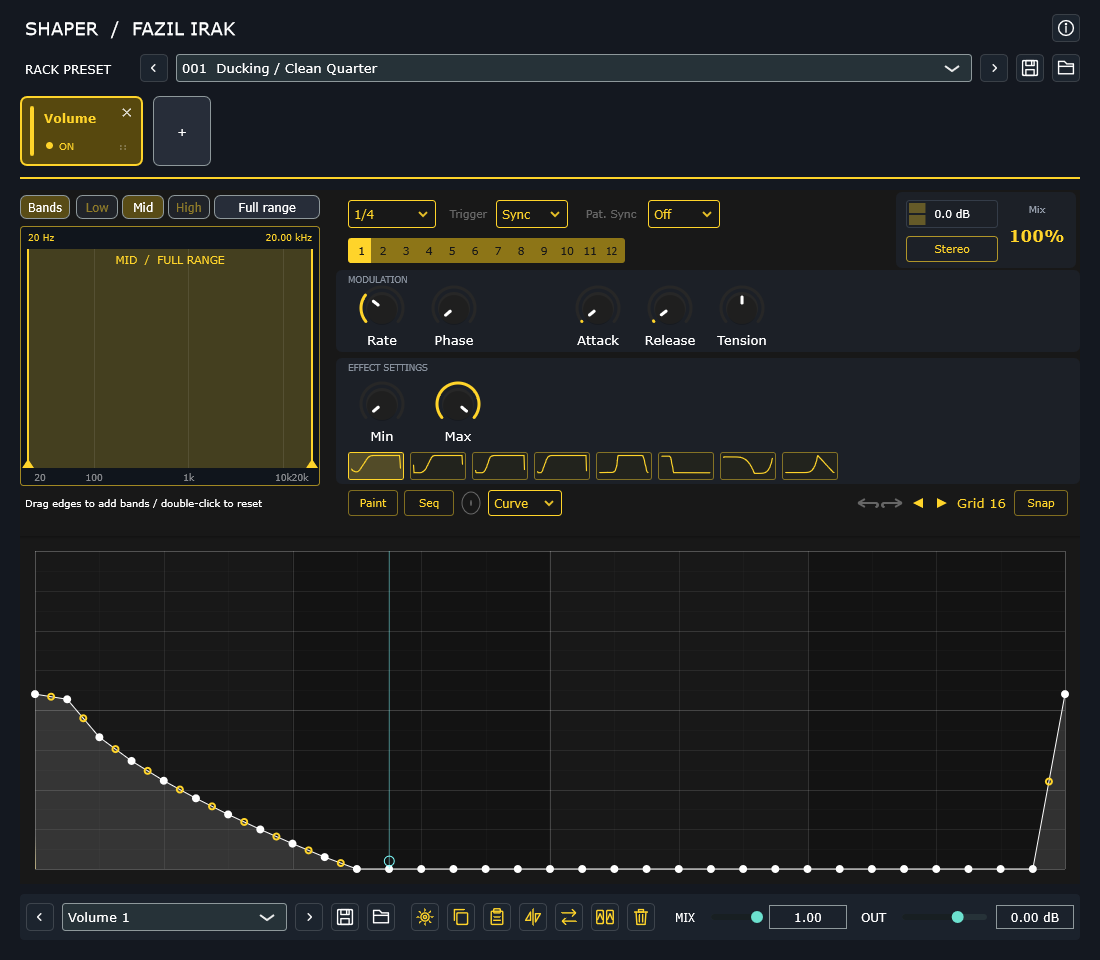
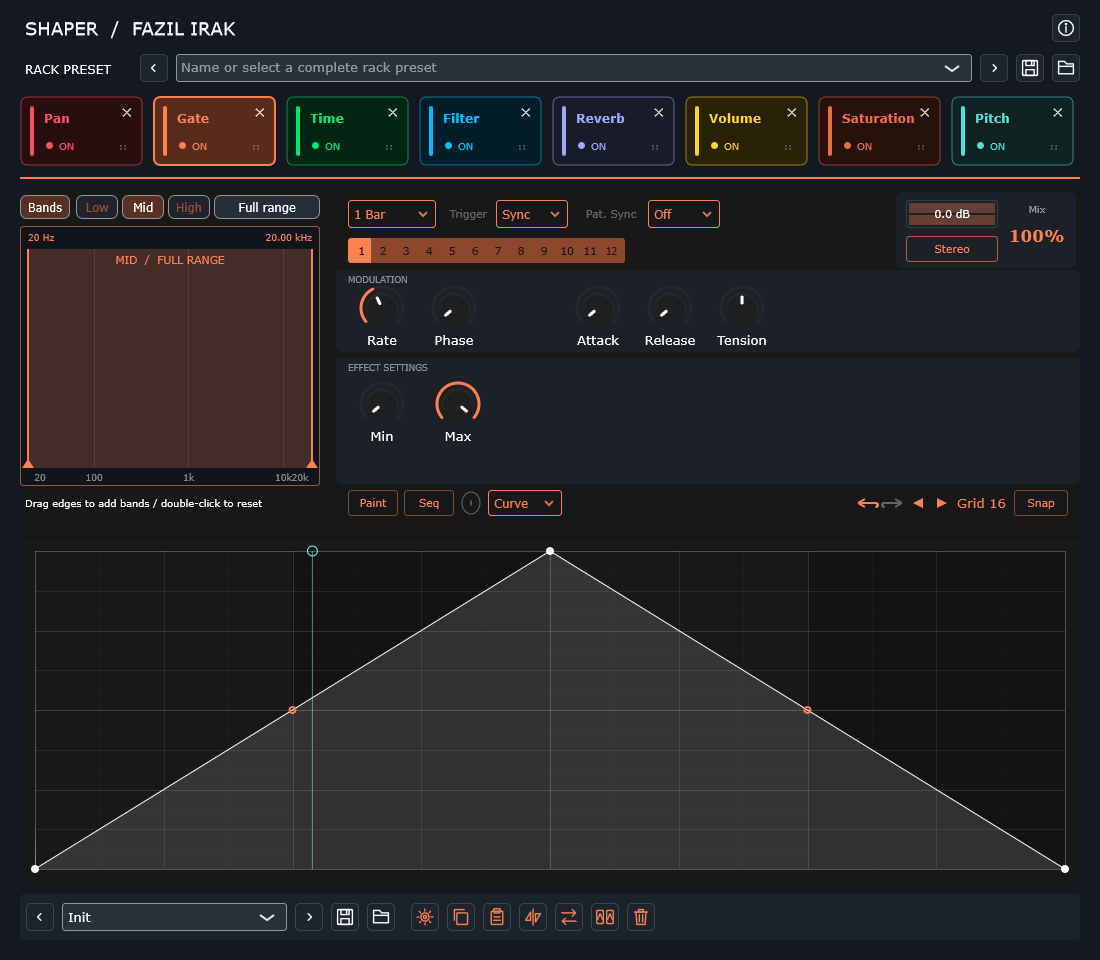
Release Shaper 0.8.3 with simplified Mix and Out footer

diff --git a/Shaper/Source/Editor.cpp b/Shaper/Source/Editor.cpp
@@ -1,9 +1,9 @@
 // SPDX-License-Identifier: GPL-3.0-only
 // Copyright (c) 2026 Fazıl Irak; Shaper eklemeleri/değişiklikleri.
-// Fazıl Irak tarafından oluşturuldu / değiştirildi: 23.10.2026
+// Fazıl Irak tarafından oluşturuldu / değiştirildi: 24.10.2026
 // Kapsam: Shaper için eklenen kod ve uyarlamalar; özgün üçüncü taraf telif/lisansları korunur.
 // Türkçe bakım açıklamaları: Fazıl Irak
-// Son düzenleme: 22.10.2026
+// Son düzenleme: 24.10.2026
 // Dosyanın görevi: Ana rack editörünü, efekt sırasını, seçimlerini ve mevcut ortak kontrol yerleşimini yönetir.
 #include "Editor.h"
 #include "MultibandProcessor.h"
@@ -57,19 +57,9 @@ ShaperEditor::ShaperEditor(ShaperProcessor &p) : AudioProcessorEditor(p), proces
     emptyLabel.setJustificationType(juce::Justification::centred);
     emptyLabel.setColour(juce::Label::textColourId, juce::Colour(0xff8993a1));
     addAndMakeVisible(emptyLabel);
-    for (auto *slider : {&mix, &gain})
-    {
-        slider->setSliderStyle(juce::Slider::LinearHorizontal);
-        slider->setTextBoxStyle(juce::Slider::TextBoxRight, false, 78, 24);
-        addAndMakeVisible(slider);
-    }
-    gain.setTextValueSuffix(" dB");
-    mixLabel.setText("MIX", juce::dontSendNotification);
-    gainLabel.setText("OUTPUT", juce::dontSendNotification);
-    addAndMakeVisible(mixLabel);
-    addAndMakeVisible(gainLabel);
-    mixAttachment = std::make_unique<SliderAttachment>(p.state, "mix", mix);
-    gainAttachment = std::make_unique<SliderAttachment>(p.state, "gain", gain);
+    // Fazıl Irak, 24.10.2026: alt rack Mix/Out görselleri kaldırıldı.
+    // Efektin sağ üst ortak çıkış paneli korunur. Eski rack mix/gain parametreleri
+    // işlemcide kalır; DAW otomasyonu ve eski presetlerin sesi değişmez.
     presetLabel.setText("EFFECT PRESET", juce::dontSendNotification);
     addChildComponent(presetLabel);
     preset.setComponentID("effect-preset");
@@ -524,11 +514,6 @@ void ShaperEditor::resized()
     options.setBounds(411, row, 28, 28);
     for (int i = 0; i < 6; ++i)
         editButtons[i].setBounds(447 + i * 36, row, 28, 28);
-    mixLabel.setBounds(670, row, 30, 28);
-    mix.setBounds(702, row, 145, 28);
-    gainLabel.setText("OUT", juce::dontSendNotification);
-    gainLabel.setBounds(856, row, 35, 28);
-    gain.setBounds(893, row, getWidth() - 919, 28);
     viewport.setBounds(20, 190, getWidth() - 40, getHeight() - 266);
     emptyLabel.setBounds(viewport.getBounds());
     if (child)

diff --git a/Shaper/Source/Editor.h b/Shaper/Source/Editor.h
@@ -1,9 +1,9 @@
 // SPDX-License-Identifier: GPL-3.0-only
 // Copyright (c) 2026 Fazıl Irak; Shaper eklemeleri/değişiklikleri.
-// Fazıl Irak tarafından oluşturuldu / değiştirildi: 23.10.2026
+// Fazıl Irak tarafından oluşturuldu / değiştirildi: 24.10.2026
 // Kapsam: Shaper için eklenen kod ve uyarlamalar; özgün üçüncü taraf telif/lisansları korunur.
 // Türkçe bakım açıklamaları: Fazıl Irak
-// Son düzenleme: 22.10.2026
+// Son düzenleme: 24.10.2026
 // Dosyanın görevi: Ana rack editörünü, efekt sırasını, seçimlerini ve mevcut ortak kontrol yerleşimini yönetir.
 #pragma once
 #include "Processor.h"
@@ -37,10 +37,9 @@ class ShaperEditor final : public juce::AudioProcessorEditor, private juce::Time
   private:
     ShaperProcessor &processor;
     RackLookAndFeel theme;
-    juce::Label title, mixLabel, gainLabel, presetLabel, rackLabel;
+    juce::Label title, presetLabel, rackLabel;
     EffectPalette palette;
     juce::Label emptyLabel;
-    juce::Slider mix, gain;
     juce::ComboBox preset, rackPreset;
     CompactIconButton previous{"<"}, next{">"}, saveRack{"Save rack"}, loadRack{"Load rack"},
         options{"Options"}, aboutButton{"About"};
@@ -53,9 +52,6 @@ class ShaperEditor final : public juce::AudioProcessorEditor, private juce::Time
     std::unique_ptr<juce::FileChooser> chooser;
     juce::Viewport viewport;
     std::unique_ptr<juce::AudioProcessorEditor> child;
-    using SliderAttachment = juce::AudioProcessorValueTreeState::SliderAttachment;
-    using ButtonAttachment = juce::AudioProcessorValueTreeState::ButtonAttachment;
-    std::unique_ptr<SliderAttachment> mixAttachment, gainAttachment;
     void select();
     void refreshPresets();
     void chooseRack(bool save);

diff --git a/Shaper/README.md b/Shaper/README.md
@@ -1,13 +1,17 @@
-<!-- Türkçe bakım: Fazıl Irak | 22.10.2026 -->
-# Shaper 0.8.2 — FAZIL IRAK
+<!-- Türkçe bakım: Fazıl Irak | 24.10.2026 -->
+# Shaper 0.8.3 — FAZIL IRAK
 
 [![Build](https://github.com/fazilirak/Music/actions/workflows/shaper-release.yml/badge.svg)](https://github.com/fazilirak/Music/actions/workflows/shaper-release.yml)
 
-[Windows x64](https://github.com/fazilirak/Music/releases/download/Shaper-v0.8.2/Shaper-0.8.2-Windows-x64.zip) · [macOS Universal](https://github.com/fazilirak/Music/releases/download/Shaper-v0.8.2/Shaper-0.8.2-macOS-Universal.tar.gz) · [Releases](https://github.com/fazilirak/Music/releases/tag/Shaper-v0.8.2) · [Source](https://github.com/fazilirak/Music/tree/main/Shaper)
+[Windows x64](https://github.com/fazilirak/Music/releases/download/Shaper-v0.8.3/Shaper-0.8.3-Windows-x64.zip) · [macOS Universal](https://github.com/fazilirak/Music/releases/download/Shaper-v0.8.3/Shaper-0.8.3-macOS-Universal.tar.gz) · [Releases](https://github.com/fazilirak/Music/releases/tag/Shaper-v0.8.3) · [Source](https://github.com/fazilirak/Music/tree/main/Shaper)
 
 ![Shaper](doc/shaper.png)
 
 JUCE tabanlı VST3 ve standalone efekt rack'i: **Gate, Time, Filter, Reverb, Volume, Pan, Saturation, Pitch**. Şirket adı: **FAZIL IRAK**. Pan ve Volume geliştiricisi: **Fazıl Irak**, temel motor GATE-12 / Tilr.
+
+## Arayüz sadeleştirmesi (0.8.3)
+
+Alt araç çubuğundaki rack Mix ve Out kontrolleri kaldırıldı. Seçili efektin sağ üst Stereo / dB / Mix paneli yerinde kalır. Eski genel rack mix/gain parametre kimlikleri, preset dosyaları ve ses işleme davranışı korunur; bu iki rack parametresi DAW otomasyonunda erişilebilir. Alt araç çubuğu preset ve eğri düzenleme araçlarını içerir.
 
 ## Dağıtım ve Hakkında (0.8.2)
 
@@ -53,7 +57,7 @@ Pitch motoru Signalsmith Stretch kullanır. Bağımlılık sürümleri ve MIT bi
 - Sekiz efektin sağ üstünde aynı **Stereo / çıkış seviye göstergesi / dB / Mix** paneli bulunur. Mix yüzdesi daha büyük ve efektin kendi rengindedir. Değerleri sürükleyerek veya fare tekerleğiyle değiştirin; çift tıklama varsayılan değeri geri getirir. Çıkış seviyesi seçili banda uygulanır ve presetle birlikte saklanır. Stereo alanı Gate, Filter, Pan ve Volume'de mevcut sol/sağ modülasyon fazını; Time, Reverb, Saturation ve Pitch'da stereo genişliğini düzenler. Üzerine gelince sayısal değer görünür.
 - Ortak kontroller **MODULATION**, efekte özgü kontroller **EFFECT SETTINGS** bölümünde toplanır. Ortak düğmelerin, pattern satırının ve eğri araçlarının boyutları ve konumları bütün efektlerde aynıdır. Time'ın Phase / Smooth / Attack / Release / Tension kontrolleri de bu ortak düzende yer alır; mevcut motor parametrelerine bağlıdır. Ek EQ/Decay ve tetikleme görünümleri kendi bölümünde açılır.
 - **Snap** işlevi korunur; açık/kapalı durumu dolgulu zemin yerine çerçeve vurgusuyla gösterilir.
-- **MIX / OUTPUT** master dry/wet ve çıkış seviyesidir. Bypass ve dry sinyal efekt gecikmeleriyle hizalanır.
+- Eski rack **MIX / OUTPUT** parametreleri DAW otomasyonunda korunur; 0.8.3 arayüzünde alt kontrolleri gösterilmez. Sağ üst Mix/dB seçili efekt/bant içindir. Bypass ve dry sinyal efekt gecikmeleriyle hizalanır.
 - **EFFECT PRESET**, bütün rack'ten bağımsız olarak yalnızca seçili efektin hazır presetini değiştirir.
 
 ## Pan

diff --git a/README.md b/README.md
@@ -5,7 +5,7 @@ Independent music software and development resources by [FAZIL AHMET IRAK](https
 | Project | Windows | macOS | Source |
 | --- | --- | --- | --- |
 | [F Saturator](F-Saturator/README.md) | [0.5.1](https://github.com/fazilirak/Music/releases/tag/F-Saturator-v0.5.1) | [Universal 0.5.1](https://github.com/fazilirak/Music/releases/tag/F-Saturator-v0.5.1) | [Browse](F-Saturator) |
-| [Shaper](Shaper/README.md) | [Releases](https://github.com/fazilirak/Music/releases/tag/Shaper-v0.8.2) | [Universal build](https://github.com/fazilirak/Music/actions/workflows/shaper-release.yml) | [Browse](Shaper) |
+| [Shaper](Shaper/README.md) | [Releases](https://github.com/fazilirak/Music/releases/tag/Shaper-v0.8.3) | [Universal build](https://github.com/fazilirak/Music/actions/workflows/shaper-release.yml) | [Browse](Shaper) |
 | [Model F](Model-F/README.md) | [0.2.8](https://github.com/fazilirak/Music/releases/tag/Model-F-v0.2.8) | [Universal](https://github.com/fazilirak/Music/releases/tag/Model-F-v0.2.8) | [Browse / licences](Model-F) |
 | [F EQ](F-EQ/README.md) | [0.1.10](https://github.com/fazilirak/Music/releases/tag/F-EQ-v0.1.10) | [Universal](https://github.com/fazilirak/Music/releases/tag/F-EQ-v0.1.10) | [Browse / licences](F-EQ) |
 
